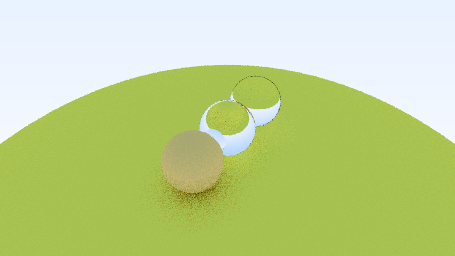
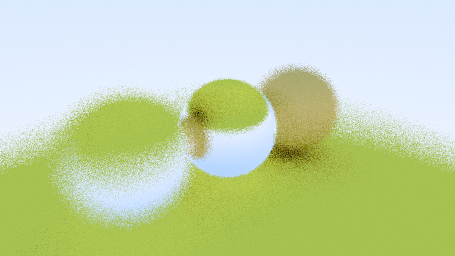
blur

Changed region(s): [[0.0, 0.25, 1.0, 0.9062]]

diff --git a/src/lib.rs b/src/lib.rs
@@ -1,37 +1,12 @@
 extern crate image;
 extern crate rand;
 
-mod v3;
-use v3::V3;
+mod math_util;
+use math_util::*;
+
 type Point = V3;
 type Color = V3;
-use std::f64::consts::PI;
 use std::rc::Rc;
-
-fn rand_in(min: f64, max: f64) -> f64 {
-    use crate::rand::distributions::Distribution;
-    rand::distributions::Uniform::from(min..max).sample(&mut rand::thread_rng())
-}
-fn rand() -> f64 {
-    rand_in(0., 1.)
-}
-fn rand_unit_v3() -> V3 {
-    let phi = rand_in(0., 2. * PI);
-    let ctheta = rand_in(-1., 1.);
-    let theta = ctheta.acos();
-    let x = theta.sin() * phi.cos();
-    let y = theta.sin() * phi.sin();
-    let z = theta.cos();
-    V3(x, y, z)
-}
-fn rand_hemisphere(normal: V3) -> V3 {
-    let v = rand_unit_v3();
-    if normal.dot(v) > 0. {
-        v
-    } else {
-        -v
-    }
-}
 
 pub struct World {
     objects: GeomList,
@@ -42,24 +17,51 @@ struct Camera {
     lower_left: Point,
     horizontal: V3,
     vertical: V3,
+    u: V3,
+    v: V3,
+    w: V3,
+    lens_radius: f64,
 }
 impl Camera {
-    fn new(look_from: Point, look_at: Point, up: V3, vfov: f64, aspect: f64) -> Camera {
+    fn new(
+        look_from: Point,
+        look_at: Point,
+        up: V3,
+        vfov: f64,
+        aspect: f64,
+        aperture: f64,
+        focus_dist: f64,
+    ) -> Camera {
         let h = (vfov * 0.5).tan();
         let height = 2. * h;
         let width = aspect * height;
+
         let w = (look_from - look_at).norm();
         let u = up.norm().cross(w);
         let v = w.cross(u);
-        let horizontal = u * width;
-        let vertical = v * height;
-        let lower_left = look_from - horizontal * 0.5 - vertical * 0.5 - w;
-        Camera { pos: look_from, horizontal, vertical, lower_left }
+
+        let horizontal = u * width * focus_dist;
+        let vertical = v * height * focus_dist;
+        let lower_left = look_from - horizontal * 0.5 - vertical * 0.5 - w * focus_dist;
+
+        Camera {
+            pos: look_from,
+            horizontal,
+            vertical,
+            lower_left,
+            u,
+            v,
+            w,
+            lens_radius: aperture * 0.5,
+        }
     }
     fn get_ray(&self, x: f64, y: f64) -> Ray {
+        let lens_disk = rand_disk() * self.lens_radius;
+        let offset = self.u * lens_disk.0 + self.v * lens_disk.1;
         Ray {
-            pos: self.pos,
-            way: self.lower_left + self.horizontal * x + self.vertical * y - self.pos,
+            pos: self.pos + offset,
+            way: (self.lower_left + self.horizontal * x + self.vertical * y - self.pos - offset)
+                .norm(),
         }
     }
 }
@@ -82,11 +84,11 @@ impl World {
             material: material_ground,
         });
         let geom_left =
-            Box::new(Sphere { pos: V3(-0.8, 0., -1.), radius: 0.4, material: material_left });
+            Box::new(Sphere { pos: V3(0.8, 0., -1.), radius: 0.4, material: material_left });
         let geom_center =
             Box::new(Sphere { pos: V3(0., 0., -1.), radius: 0.4, material: material_center });
         let geom_right =
-            Box::new(Sphere { pos: V3(0.8, 0., -1.), radius: 0.4, material: material_right });
+            Box::new(Sphere { pos: V3(-0.8, 0., -1.), radius: 0.4, material: material_right });
         let objects = GeomList { geoms: vec![geom_left, geom_center, geom_right, geom_ground] };
         /*vec![Geom::Plain {
             origin: V3(0., 0., 0.),
@@ -94,8 +96,12 @@ impl World {
             y: V3(0., 1., 0.),
             color: V3(0., 1., 0.),
         }]*/
-        let camera =
-            Camera::new(V3(3., 3., 1.), V3(0., 0., -1.), V3(0., -1., 0.), 0.3 * PI, 16. / 9.);
+        let look_from = V3(1.2, 0.9, 0.7);
+        let look_at = V3(0., 0., -1.);
+        let up = V3(0., -1., 0.);
+        let focus_dist = (look_from - look_at).len();
+        let aperture = 0.8;
+        let camera = Camera::new(look_from, look_at, up, 0.3 * PI, 16. / 9., aperture, focus_dist);
         World { objects, camera }
     }
     pub fn render(&self, option: RenderOption) -> image::RgbImage {
@@ -283,6 +289,7 @@ impl Material for Glass {
         let cos = -ray.way.dot(hit.normal);
         let sin = (1. - cos * cos).sqrt();
         let cannot_refracted = ref_ratio * sin > 1.;
+
         let way = if cannot_refracted {
             ray.way.reflect(hit.normal)
         } else {

diff --git a/src/math_util.rs b/src/math_util.rs
@@ -1,5 +1,6 @@
 #[derive(Debug, Clone, Copy, PartialEq)]
 pub struct V3(pub f64, pub f64, pub f64);
+pub static PI: f64 = std::f64::consts::PI;
 
 use std::ops;
 impl ops::Add<V3> for V3 {
@@ -87,4 +88,34 @@ impl V3 {
         let para = -normal * (1. - prep.sq_len()).sqrt();
         prep + para
     }
+}
+
+pub fn rand_in(min: f64, max: f64) -> f64 {
+    use crate::rand::distributions::Distribution;
+    rand::distributions::Uniform::from(min..max).sample(&mut rand::thread_rng())
+}
+pub fn rand() -> f64 {
+    rand_in(0., 1.)
+}
+pub fn rand_unit_v3() -> V3 {
+    let phi = rand_in(0., 2. * PI);
+    let ctheta = rand_in(-1., 1.);
+    let theta = ctheta.acos();
+    let x = theta.sin() * phi.cos();
+    let y = theta.sin() * phi.sin();
+    let z = theta.cos();
+    V3(x, y, z)
+}
+pub fn rand_hemisphere(normal: V3) -> V3 {
+    let v = rand_unit_v3();
+    if normal.dot(v) > 0. {
+        v
+    } else {
+        -v
+    }
+}
+pub fn rand_disk() -> V3 {
+    let r = rand().sqrt();
+    let theta = rand() * 2.0 * PI;
+    V3(r * theta.cos(), r * theta.sin(), 0.)
 }

diff --git a/src/main.rs b/src/main.rs
@@ -4,7 +4,7 @@ fn main() {
         campus_width: (256. * (16. / 9.)) as u32,
         campus_height: 256,
         samples: 5,
-        depth: 20,
+        depth: 10,
     };
     world.render(option).save("test.png").unwrap();
 }
